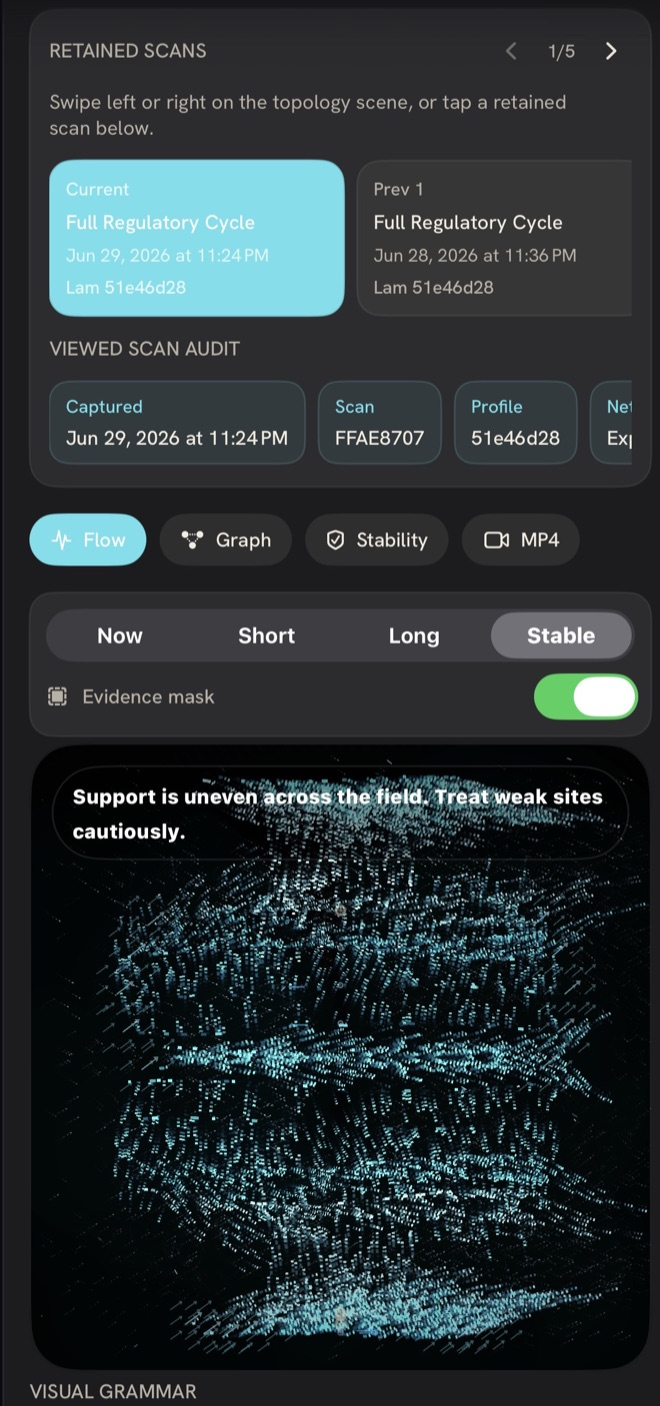
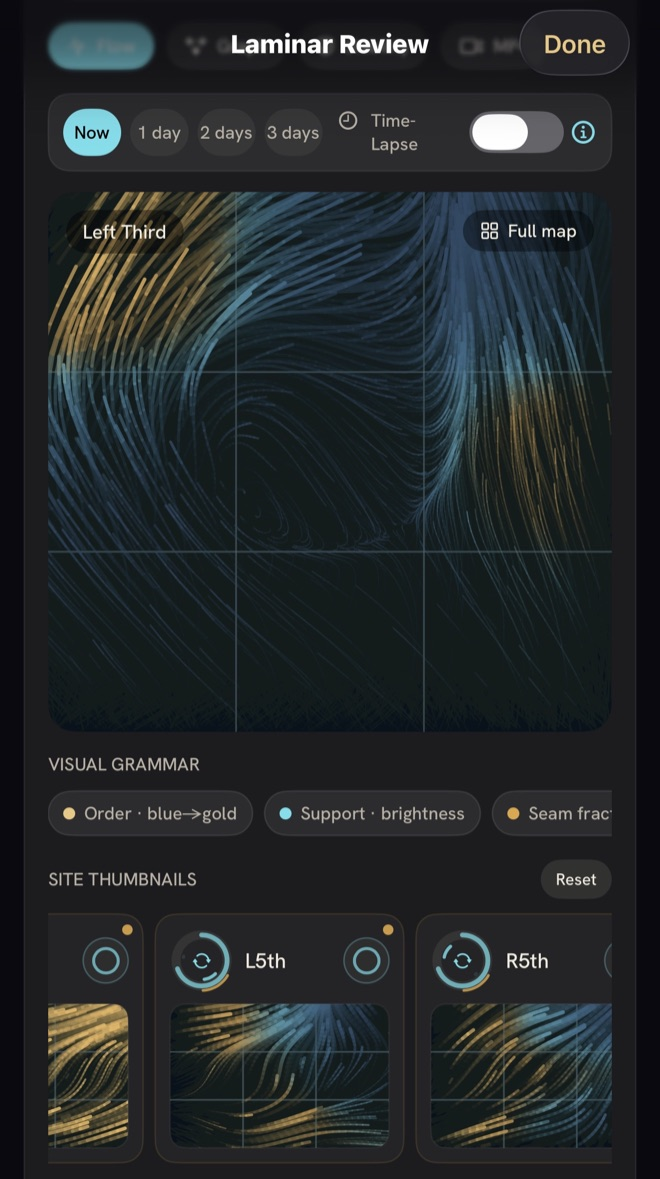
Update the coherence-with-light images to current Laminar Review
Replaces the older topology-scan screenshots with the current light and
dark Laminar Review captures, resampled to the site's 660px convention.
Alt text and figure label now describe the screen actually shown, and the
srcs carry ?v=2 so cached copies refresh.

diff --git a/index.html b/index.html
@@ -623,10 +623,10 @@
         <p class="ahead__tag muted">A preview of work still in research and development. The full research program lives on the company site —<a href="https://fieldfluxbiosystems.com/platform.html" target="_blank" rel="noopener" style="color:var(--glow);font-weight:600;">the platform at Fieldflux&nbsp;Biosystems&nbsp;&rarr;</a></p>
       </div>
 
-      <figure class="ahead__device reveal" aria-label="A live topology scan: a flowing field of phase-coherence vectors across the body surface, captioned 'Support is uneven across the field. Treat weak sites cautiously.'">
+      <figure class="ahead__device reveal" aria-label="Laminar Review: a flowing field of phase-coherence streamlines over a site grid, with a Now-to-three-days time selector, a visual-grammar legend, and per-site thumbnails.">
         <div class="device__frame">
-          <img class="device__shot device__shot--dark"  src="assets/img/ahead-dark.jpg"  loading="lazy" alt="Phase-coherence topology scan — a flowing cyan vector field across the body surface">
-          <img class="device__shot device__shot--light" src="assets/img/ahead-light.jpg" loading="lazy" alt="Phase-coherence topology scan in light mode">
+          <img class="device__shot device__shot--dark"  src="assets/img/ahead-dark.jpg?v=2"  loading="lazy" alt="Laminar Review — blue and gold phase-coherence streamlines across a site grid, with the time selector and visual-grammar legend" width="660" height="1179">
+          <img class="device__shot device__shot--light" src="assets/img/ahead-light.jpg?v=2" loading="lazy" alt="Laminar Review in light mode" width="660" height="1150">
         </div>
       </figure>
     </div>
